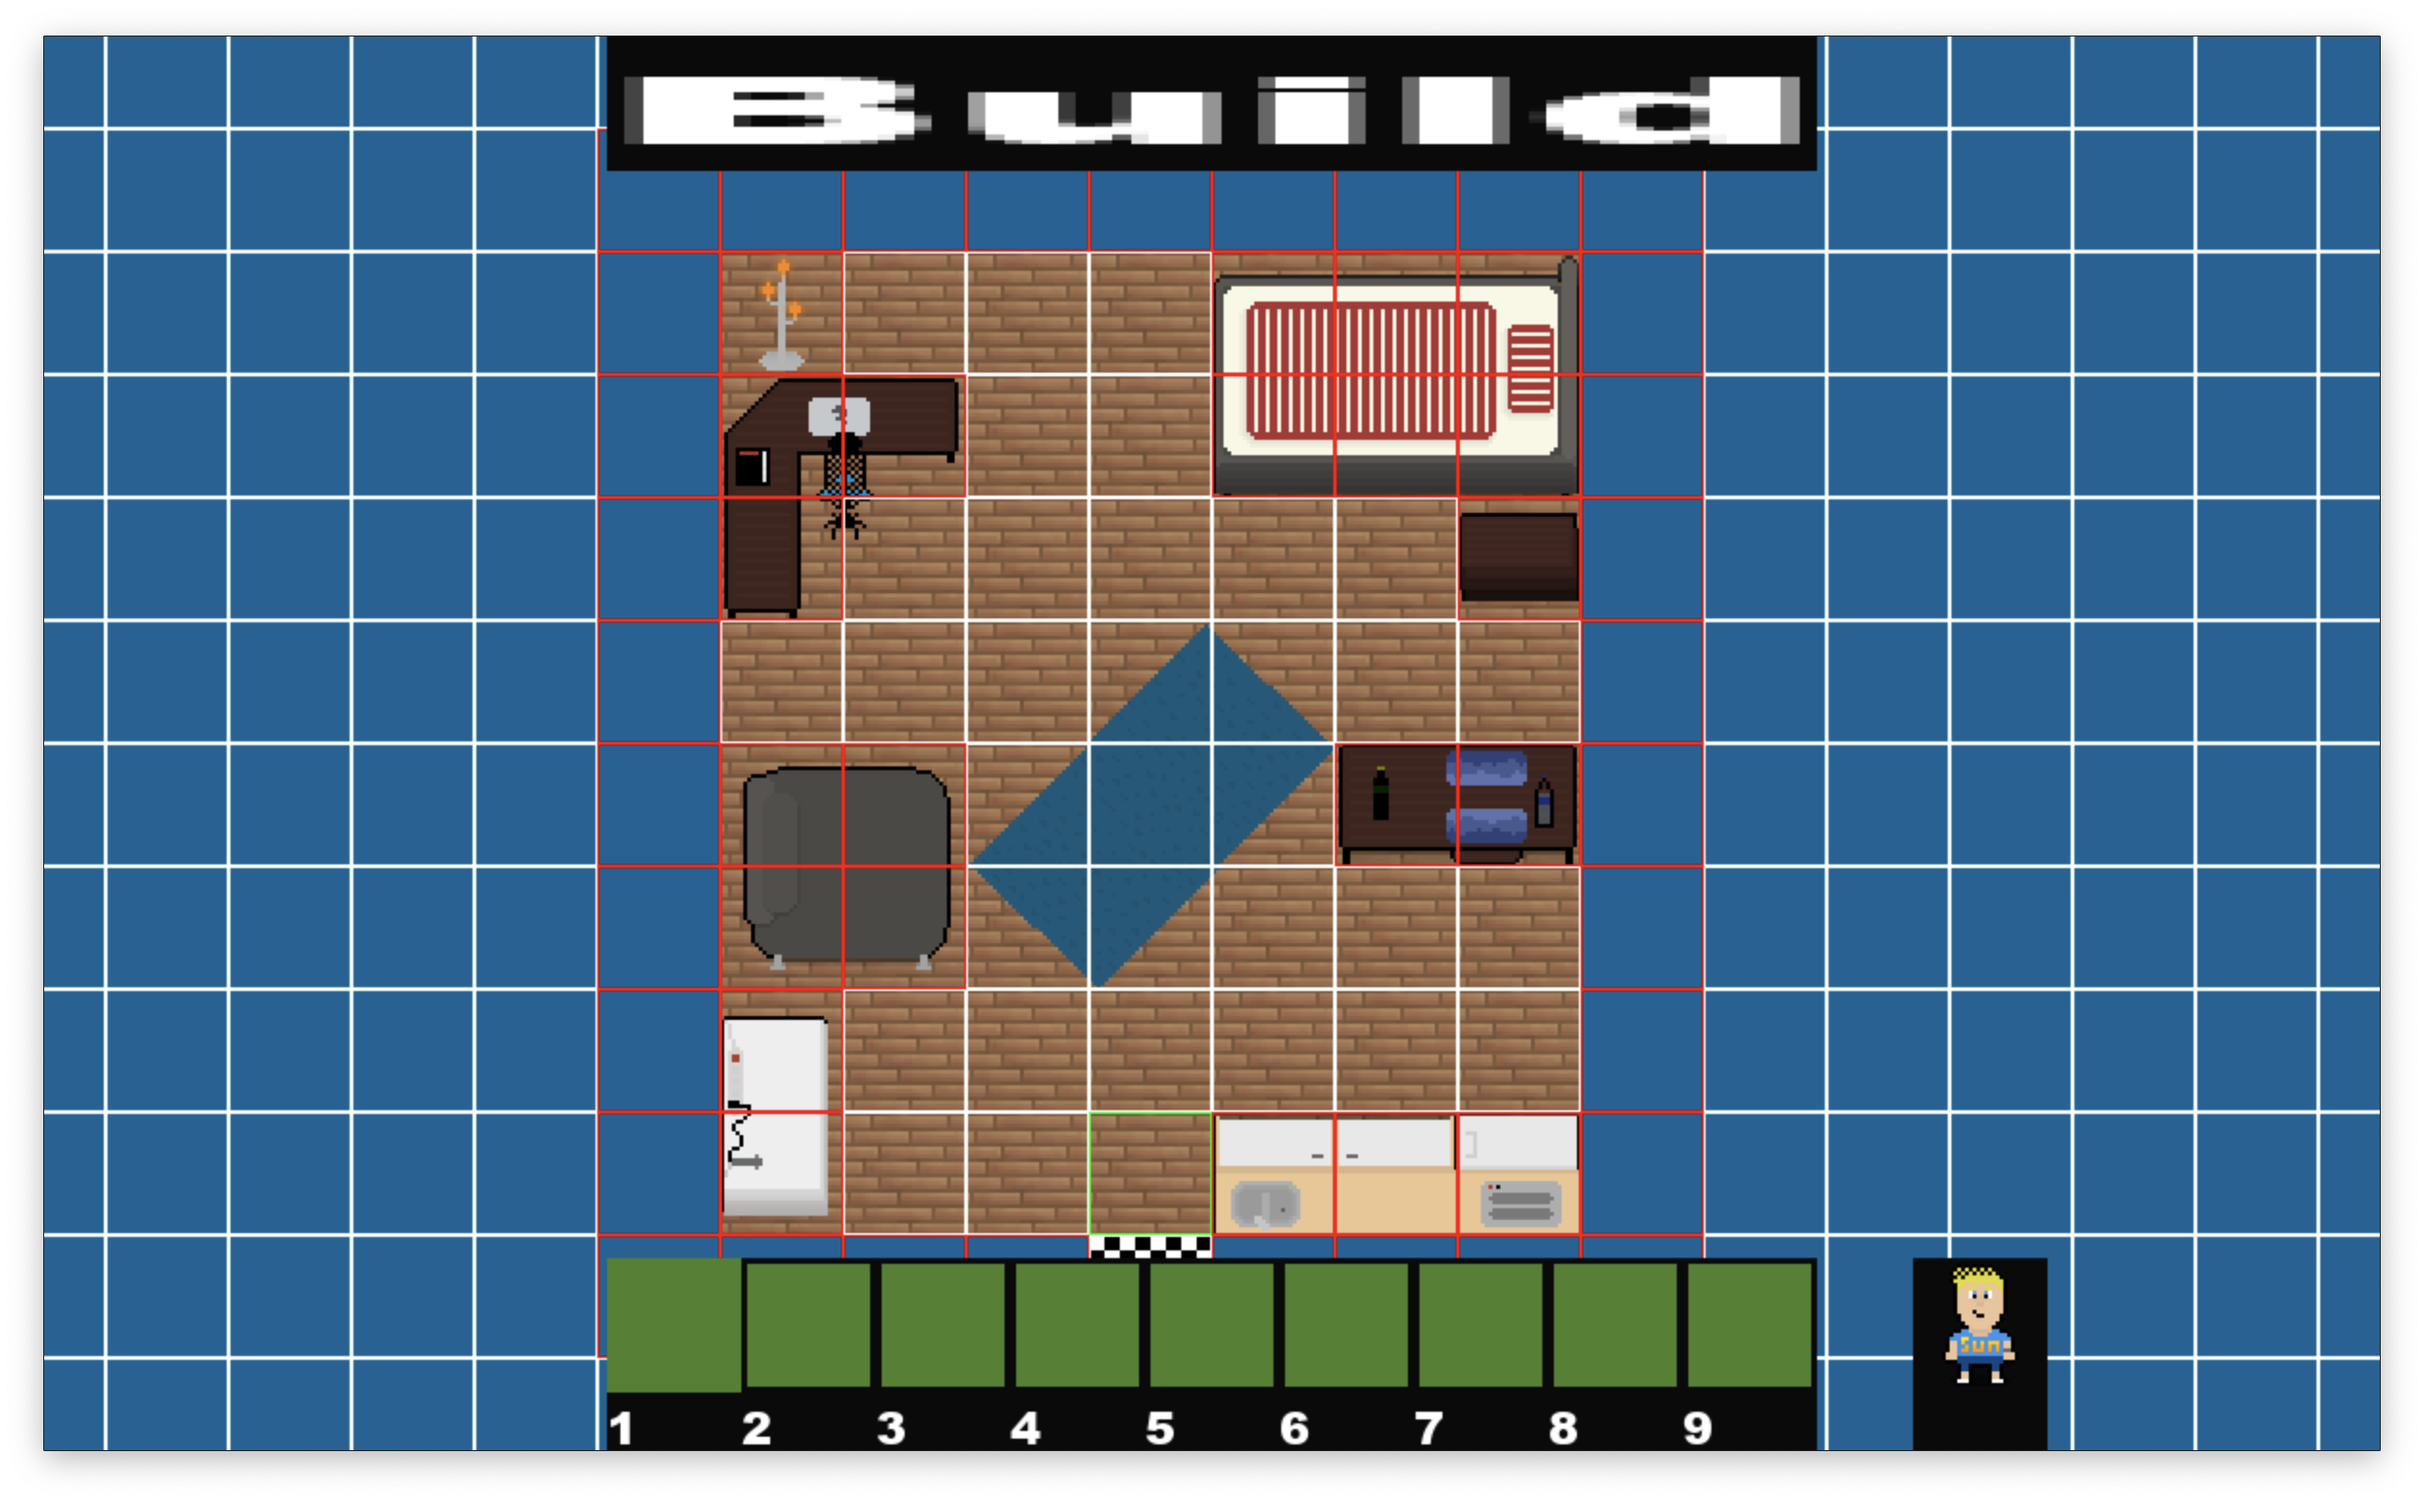
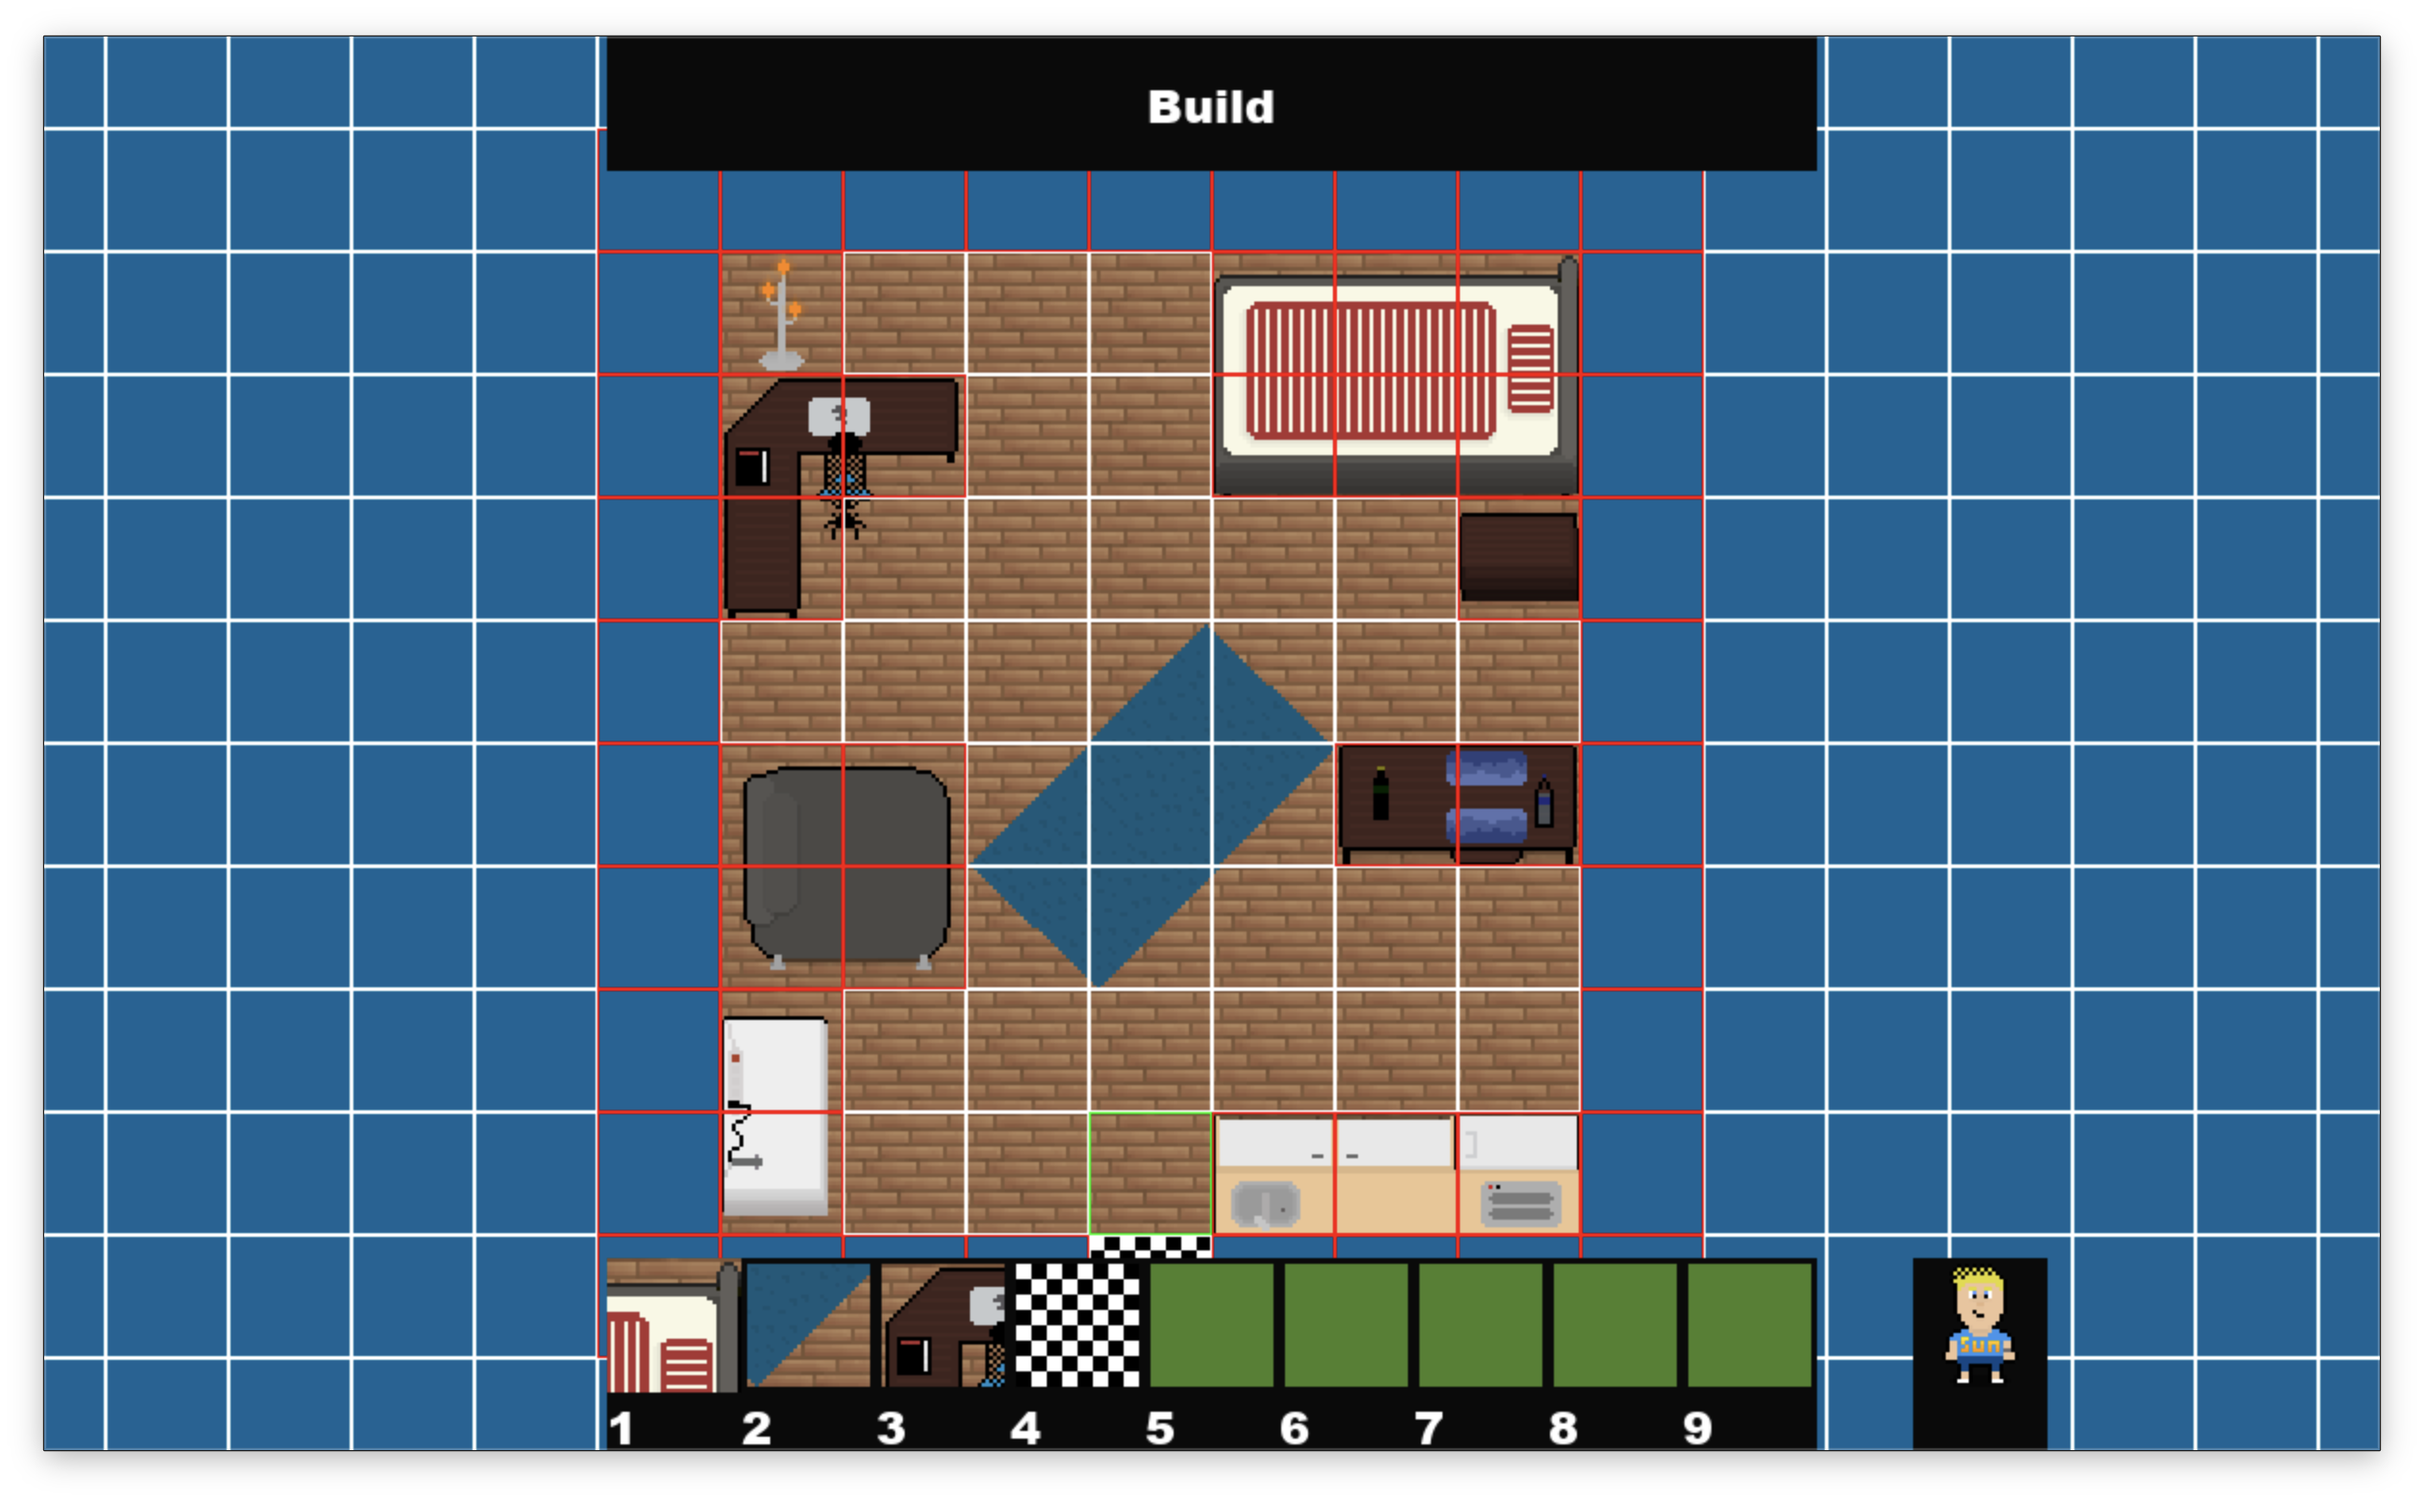
Added inventory to look at unlocked items. Added item descriptions I wrote back in the day. Fixed the dialogue so that "äöüß" can be displayed. Fixed the stretched text from the Editor Mode text box. Fixed the Editor crashing when closing it :D

Changed region(s): [[0.2472, 0.0307, 0.7417, 0.1228], [0.2472, 0.8286, 0.4945, 0.9514]]

diff --git a/src/uiwidgets.c b/src/uiwidgets.c
@@ -4,9 +4,26 @@
 #include <SDL2/SDL.h>
 #include <SDL2/SDL_ttf.h>
 #include "header/constants.h"
+#include "header/game.h"
 
 //Transparency value for Text box
 # define ALPHA 180
+# define INVENTORY_WIDTH (SCREEN_WIDTH - (2 * TILESIZE))
+# define INVENTORY_HEIGHT (SCREEN_HEIGHT - (2 * TILESIZE))
+# define INVENTORY_LEFT_WIDTH (INVENTORY_WIDTH * 2 / 5)
+# define INVENTORY_PADDING 16
+
+typedef struct {
+    char name[64];
+    char description[1024];
+    SDL_Texture *nameTexture;
+    SDL_Texture *descriptionTexture;
+} InventoryEntry;
+
+static InventoryEntry inventoryEntries[NUMOFITEMS];
+static SDL_Texture *unknownTexture = NULL;
+static int inventorySelection = 0;
+static const int inventoryOrder[NUMOFITEMS] = {7, 0, 6, 1, 3, 4, 5, 2};
 
 SDL_Rect backgroundRect;
 SDL_Rect backgroundRectName;
@@ -22,23 +39,61 @@ SDL_Color textColor = {255, 255, 255};
 
 char* name = "Test";
 
-typedef struct
-{
-    char *text;
-} Textbox;
-
-void initUIWidgets() {
+void initUIWidgets(SDL_Renderer *r) {
     textFont = TTF_OpenFont("src/data/ArialBlack.ttf", 24);
     nameFont = TTF_OpenFont("src/data/ArialBlack.ttf", 18);
     backgroundRect.h = 50;
     backgroundRect.w = 8 * SCREEN_WIDTH / 10;
     backgroundRect.x = (SCREEN_WIDTH - backgroundRect.w) / 2;
     backgroundRect.y = SCREEN_HEIGHT - backgroundRect.h - 10;
+
+    FILE *file = fopen("src/data/itemDescriptions.txt", "r");
+    char line[1024];
+    for (int i = 0; i < NUMOFITEMS; i++) {
+        strcpy(inventoryEntries[i].name, "???");
+        strcpy(inventoryEntries[i].description, "???");
+        inventoryEntries[i].nameTexture = NULL;
+        inventoryEntries[i].descriptionTexture = NULL;
+
+        if (file && fgets(line, sizeof(line), file)) {
+            inventoryEntries[i].description[0] = 0;
+
+            if (fgets(line, sizeof(line), file)) {
+                line[strcspn(line, "\r\n")] = 0;
+                strncpy(inventoryEntries[i].name, line, sizeof(inventoryEntries[i].name) - 1);
+                inventoryEntries[i].name[sizeof(inventoryEntries[i].name) - 1] = 0;
+            }
+            while (fgets(line, sizeof(line), file)) {
+                line[strcspn(line, "\r\n")] = 0;
+                if (!line[0]) break;
+                if (inventoryEntries[i].description[0]) {
+                    strncat(inventoryEntries[i].description, "\n",
+                        sizeof(inventoryEntries[i].description) - strlen(inventoryEntries[i].description) - 1);
+                }
+                strncat(inventoryEntries[i].description, line,
+                    sizeof(inventoryEntries[i].description) - strlen(inventoryEntries[i].description) - 1);
+            }
+        }
+
+        SDL_Surface *surface = TTF_RenderUTF8_Blended(nameFont, inventoryEntries[i].name, textColor);
+        inventoryEntries[i].nameTexture = SDL_CreateTextureFromSurface(r, surface);
+        SDL_FreeSurface(surface);
+
+        surface = TTF_RenderUTF8_Blended_Wrapped(nameFont, inventoryEntries[i].description,
+            textColor, INVENTORY_WIDTH - INVENTORY_LEFT_WIDTH - (2 * INVENTORY_PADDING));
+        inventoryEntries[i].descriptionTexture = SDL_CreateTextureFromSurface(r, surface);
+        SDL_FreeSurface(surface);
+    }
+    if (file) fclose(file);
+
+    SDL_Surface *surface = TTF_RenderUTF8_Blended(nameFont, "???", textColor);
+    unknownTexture = SDL_CreateTextureFromSurface(r, surface);
+    SDL_FreeSurface(surface);
 }
 
 void createTextTure(SDL_Renderer *r, char *text) {
     if (!textTure) SDL_DestroyTexture(textTure);
-    textSurface = TTF_RenderText_Solid(textFont, text, textColor);
+    textSurface = TTF_RenderUTF8_Solid(textFont, text, textColor);
     textTure = SDL_CreateTextureFromSurface(r, textSurface);
     SDL_FreeSurface(textSurface);
     SDL_QueryTexture(textTure, NULL, NULL, &(textRect.w), &(textRect.h));
@@ -48,7 +103,7 @@ void createTextTure(SDL_Renderer *r, char *text) {
 
 void createNameTexture(SDL_Renderer *r) {
     if (!nameTexture) SDL_DestroyTexture(nameTexture);
-    nameSurface = TTF_RenderText_Solid(nameFont, name, textColor);
+    nameSurface = TTF_RenderUTF8_Solid(nameFont, name, textColor);
     nameTexture = SDL_CreateTextureFromSurface(r, nameSurface);
     SDL_FreeSurface(nameSurface);
     SDL_QueryTexture(nameTexture, NULL, NULL, &(nameRect.w), &(nameRect.h));
@@ -86,7 +141,100 @@ void renderItemBox(SDL_Renderer *r, SDL_Texture *itemSprite) {
     SDL_RenderCopy(r, itemSprite, NULL, &itemRec);
 }
 
+int updateInventory(void *ptr) {
+    SDL_Event event;
+    while (SDL_PollEvent(&event)) {
+        switch (event.type) {
+            case SDL_QUIT:
+                return 0;
+            case SDL_KEYUP:
+                switch (event.key.keysym.sym) {
+                    case SDLK_ESCAPE:
+                        return 0;
+                    case SDLK_i:
+                        inventorySelection = 0;
+                        update = updateGame;
+                        render = renderGame;
+                        break;
+                    case SDLK_w:
+                    case SDLK_UP:
+                        if (inventorySelection > 0) inventorySelection--;
+                        break;
+                    case SDLK_s:
+                    case SDLK_DOWN:
+                        if (inventorySelection < NUMOFITEMS - 1) inventorySelection++;
+                        break;
+                }
+                break;
+        }
+    }
+    return 1;
+}
+
+void renderInventory(void) {
+    renderGame();
+
+    SDL_Rect inventoryRect = {
+        (SCREEN_WIDTH - INVENTORY_WIDTH) / 2,
+        (SCREEN_HEIGHT - INVENTORY_HEIGHT) / 2,
+        INVENTORY_WIDTH,
+        INVENTORY_HEIGHT
+    };
+    SDL_SetRenderDrawColor(renderer, 0, 0, 0, ALPHA);
+    SDL_RenderFillRect(renderer, &inventoryRect);
+    SDL_SetRenderDrawColor(renderer, 255, 255, 255, 255);
+    SDL_RenderDrawRect(renderer, &inventoryRect);
+    SDL_RenderDrawLine(renderer, inventoryRect.x + INVENTORY_LEFT_WIDTH, inventoryRect.y,
+        inventoryRect.x + INVENTORY_LEFT_WIDTH, inventoryRect.y + inventoryRect.h);
+
+    int rowHeight = (INVENTORY_HEIGHT - (2 * INVENTORY_PADDING)) / NUMOFITEMS;
+    for (int i = 0; i < NUMOFITEMS; i++) {
+        SDL_Rect row = {
+            inventoryRect.x + INVENTORY_PADDING,
+            inventoryRect.y + INVENTORY_PADDING + (i * rowHeight),
+            INVENTORY_LEFT_WIDTH - (2 * INVENTORY_PADDING),
+            rowHeight
+        };
+        if (i == inventorySelection) SDL_RenderDrawRect(renderer, &row);
+
+        int itemId = inventoryOrder[i];
+        SDL_Texture *texture = player->items[itemId]
+            ? inventoryEntries[itemId].nameTexture : unknownTexture;
+        SDL_Rect text;
+        SDL_QueryTexture(texture, NULL, NULL, &text.w, &text.h);
+        text.x = row.x + INVENTORY_PADDING;
+        text.y = row.y + ((row.h - text.h) / 2);
+        SDL_RenderCopy(renderer, texture, NULL, &text);
+    }
+
+    int itemId = inventoryOrder[inventorySelection];
+    int rightX = inventoryRect.x + INVENTORY_LEFT_WIDTH;
+    int rightWidth = INVENTORY_WIDTH - INVENTORY_LEFT_WIDTH;
+    SDL_Rect icon = {
+        rightX + ((rightWidth - ITEMSIZE) / 2),
+        inventoryRect.y + INVENTORY_PADDING,
+        ITEMSIZE,
+        ITEMSIZE
+    };
+    if (player->items[itemId]) {
+        SDL_RenderCopy(renderer, items[itemId]->sprite, NULL, &icon);
+    }
+
+    SDL_Texture *description = player->items[itemId]
+        ? inventoryEntries[itemId].descriptionTexture : unknownTexture;
+    SDL_Rect descriptionRect;
+    SDL_QueryTexture(description, NULL, NULL, &descriptionRect.w, &descriptionRect.h);
+    descriptionRect.x = rightX + ((rightWidth - descriptionRect.w) / 2);
+    descriptionRect.y = icon.y + icon.h + INVENTORY_PADDING;
+    SDL_RenderCopy(renderer, description, NULL, &descriptionRect);
+}
+
 void cleanUIWidgets() {
     if (!textTure) SDL_DestroyTexture(textTure);
+    for (int i = 0; i < NUMOFITEMS; i++) {
+        SDL_DestroyTexture(inventoryEntries[i].nameTexture);
+        SDL_DestroyTexture(inventoryEntries[i].descriptionTexture);
+    }
+    SDL_DestroyTexture(unknownTexture);
     TTF_CloseFont(textFont);
 }

diff --git a/src/editor.c b/src/editor.c
@@ -494,8 +494,12 @@ void renderEditor(void) {
         tileItem.y = npcBox.y + 3;
         renderTile(renderer, npcArr[npcNumber].sprite, &tileItem);
     }
+    SDL_Rect modeTextRect;
+    SDL_QueryTexture(modeName[mode], NULL, NULL, &modeTextRect.w, &modeTextRect.h);
+    modeTextRect.x = modeRect.x + ((modeRect.w - modeTextRect.w) / 2);
+    modeTextRect.y = modeRect.y + ((modeRect.h - modeTextRect.h) / 2);
     SDL_RenderFillRect(renderer, &modeRect);
-    SDL_RenderCopy(renderer, modeName[mode], NULL, &modeRect);
+    SDL_RenderCopy(renderer, modeName[mode], NULL, &modeTextRect);
 
     SDL_RenderPresent(renderer);
 }
@@ -525,10 +529,6 @@ void saveLevel(Level *l) {
 }
 
 void cleanUpEditor(void) {
-    SDL_DestroyRenderer(renderer);
-    SDL_DestroyWindow(window);
-    SDL_Quit();
-    IMG_Quit();
     free(player);
     unloadLevel(level);
     free(level);
@@ -544,6 +544,10 @@ void cleanUpEditor(void) {
     }
     free(modeName);
     free(modes);
+    SDL_DestroyRenderer(renderer);
+    SDL_DestroyWindow(window);
+    SDL_Quit();
+    IMG_Quit();
     printf("Cleaned up!\n");
 }
 

diff --git a/src/objects.c b/src/objects.c
@@ -121,6 +121,7 @@ void loadNPCText(NPC *npc) {
         line[strlen(line) - 1] = 0;
         switch (strlen(line)) {
             case 0:
+                npc->lines[npc->numLines][lineCount] = NULL;
                 run = 0;
                 break;
             case 1:
@@ -267,21 +268,11 @@ void initNPCsEditor(SDL_Renderer *r) {
 }
 
 void cleanNPC(NPC *n) {
-    int countInner = 0;
-    int countOuter = 0;
-    while (1) {
-        while (1) {
-            if (n->lines[countOuter][countInner] == NULL) {
-                countInner = 0;
-                countOuter++;
-                break;
-            }
+    for (int countOuter = 0; countOuter < n->numLines; countOuter++) {
+        for (int countInner = 0; n->lines[countOuter][countInner] != NULL; countInner++) {
             free(n->lines[countOuter][countInner]);
-            countInner++;
         }
-        if (n->lines[countOuter] == NULL) break;
         free(n->lines[countOuter]);
-        countOuter++;
     }
     free(n->lines);
 }

diff --git a/src/game.c b/src/game.c
@@ -192,6 +192,14 @@ int updateGame(void *ptr) {
                             player->movRight = 0;
                         }
                         break;
+                    case SDLK_i:
+                        player->movDown = 0;
+                        player->movUp = 0;
+                        player->movLeft = 0;
+                        player->movRight = 0;
+                        update = updateInventory;
+                        render = renderInventory;
+                        break;
                 }
         }
     }
@@ -315,7 +323,7 @@ int initialize(void) {
     initCamera(camera, player->x, player->y);
 
     //Init UIWidgets
-    initUIWidgets();
+    initUIWidgets(renderer);
 
     //Init NPCs
     initNPCs(renderer);

diff --git a/src/header/uiwidgets.h b/src/header/uiwidgets.h
@@ -23,12 +23,14 @@ typedef struct {
 } Textbox;
 
 // Function declarations
-void initUIWidgets();
+void initUIWidgets(SDL_Renderer *r);
 void createTextTure(SDL_Renderer *r, char *text);
 void renderTextBox(SDL_Renderer *r);
 void createNameTexture(SDL_Renderer *r);
 void renderNameBox(SDL_Renderer *r);
 void renderItemBox(SDL_Renderer *r, SDL_Texture *itemSprite);
+int updateInventory(void *ptr);
+void renderInventory(void);
 void cleanUIWidgets();
 
 #endif // UI_WIDGETS_H
